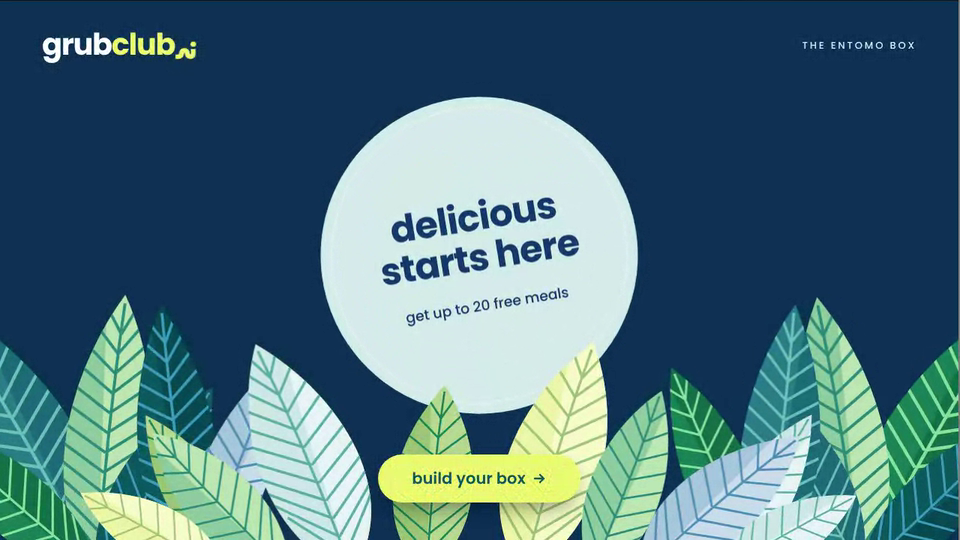
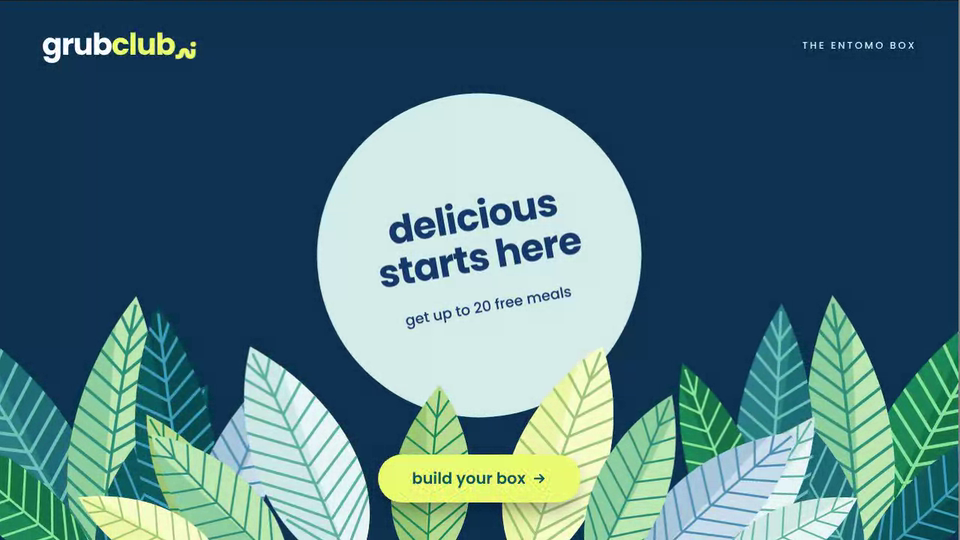
Grubclub Order: remove inner white ring from the hero circle
Claude-Session: https://claude.ai/code/session_01AHeBdxhV8CCLctwk6eqLXm

diff --git a/grubclub-order/index.html b/grubclub-order/index.html
@@ -142,7 +142,7 @@ main{flex:1;min-height:0;position:relative;overflow:hidden;background:#07213a}
 <!-- 1 hero -->
 <section class="scene" id="s0" aria-label="Hero">
   <svg class="bg" id="hSvg" viewBox="0 0 1280 720"><g id="hBack"></g>
-    <g id="hc"><circle r="212" fill="#D6ECE8"/><circle r="198" fill="none" stroke="#fff" stroke-opacity=".45" stroke-width="2"/>
+    <g id="hc"><circle r="212" fill="#D6ECE8"/>
       <g id="hTxt" transform="rotate(-9)" font-family="Poppins,sans-serif" text-anchor="middle" fill="#14396B" font-weight="700">
         <text class="hl" y="-34" font-size="50" letter-spacing="-1">delicious</text>
         <text class="hl" y="20" font-size="50" letter-spacing="-1">starts here</text>
